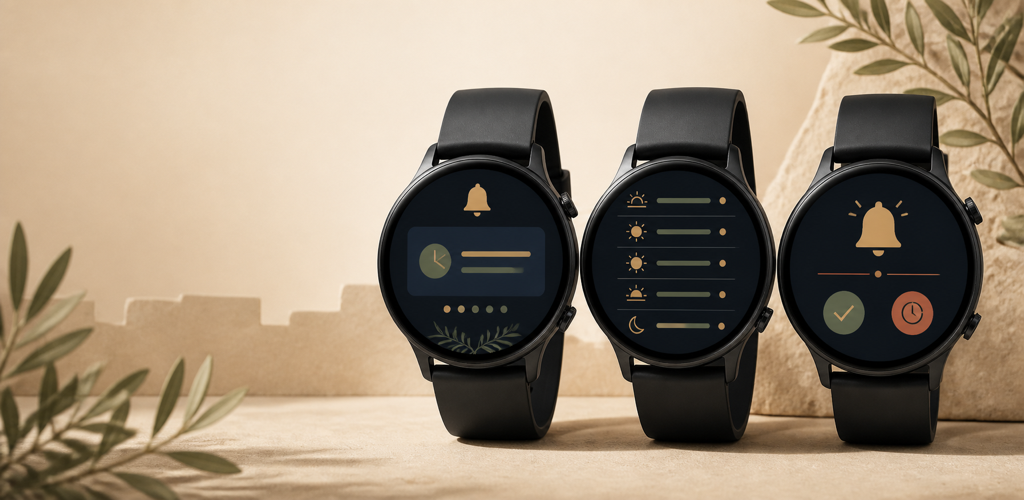
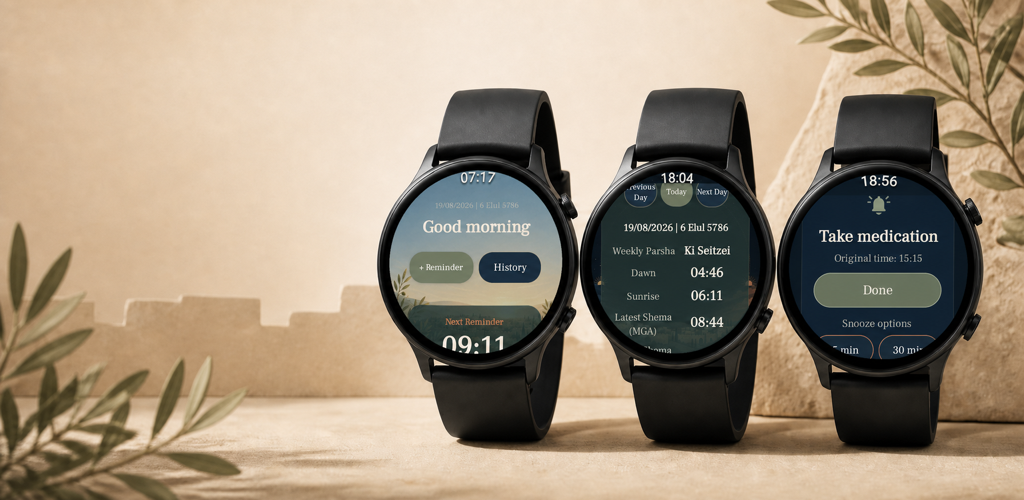
Use real app screens in feature graphic

diff --git a/PROJECT_STATUS.md b/PROJECT_STATUS.md
@@ -49,7 +49,7 @@ WatchReminder/
 - כפתור „בוצע” במסך ההתראה הודגש כפעולה הראשית באמצעות פינות מעוגלות במלואן, טקסט שנהב ופס ירוק־מרווה בהיר ועדין מסביב.
 - רוחב כפתור „בוצע” הותאם לאזור הבטוח של מסך השעון העגול: 160dp על 42dp, כך שהמסגרת והפינות נשארות גלויות במלואן.
 - צילומי החנות של מסך ההתראה בעברית ובאנגלית עודכנו לאחר שינוי הפעמון, המרווחים וכפתור הפעולה הראשי. נבחרו כותרות קצרות בשורה אחת — „לקחת תרופה” ו־`Take medication` — ושני הקבצים אומתו ונשמרו כ־JPEG בגודל 454x454 תחת `store-assets/screenshots/wear/{he,en}/07_alert_dark.jpg`.
-- נוצרה גרפיקת Feature Graphic ייעודית ל־Google Play במידות המדויקות `1024x500`, בסגנון החזותי של האפליקציה וללא מידע אישי או טקסט מלאכותי. הקובץ נשמר תחת `store-assets/feature-graphic/watch-reminder-feature-graphic.png`.
+- נוצרה גרפיקת Feature Graphic ייעודית ל־Google Play במידות המדויקות `1024x500`, בסגנון החזותי של האפליקציה וללא מידע אישי. הגרסה הסופית משלבת בתוך שלושת השעונים צילומים אמיתיים של מסך הבית, זמני היום ומסך ההתראה באנגלית, במקום ממשק המחשה גנרי. הקובץ נשמר תחת `store-assets/feature-graphic/watch-reminder-feature-graphic.png`.
 - כרטיס הלוגים הוסר ממסך ההגדרות, כולל כפתורי השליחה והניקוי. מנגנון הלוגים עצמו נשאר פעיל בקוד לצורכי אבחון ואינו מוצג למשתמש בממשק הרגיל.
 - הושלם סבב לוקליזציה ממוקד לאנגלית: בוררי הסטת זמני ההלכה מציגים `On time`/`min`, הערות היסטוריה כגון „סומן מראש” מתורגמות, שורת התזכורת הבאה בספירת העומר מתורגמת במלואה, ומסך זמני שקט מתרגם גם את שם הכלל, גבולות זמני ההלכה, „היום/מחר/אתמול” ושורות הזמן בפועל.
 - נוספה רשימת שמות אנגלית מסודרת לכל 54 היישובים שב־`IsraeliCityResolver`, כולל טיפול בסיומות „ישראל” ו„בקירוב”, והיא משמשת גם את מסך יצירת/עריכת התזכורת וגם את מסכי זמני היום והגדרות המיקום.
